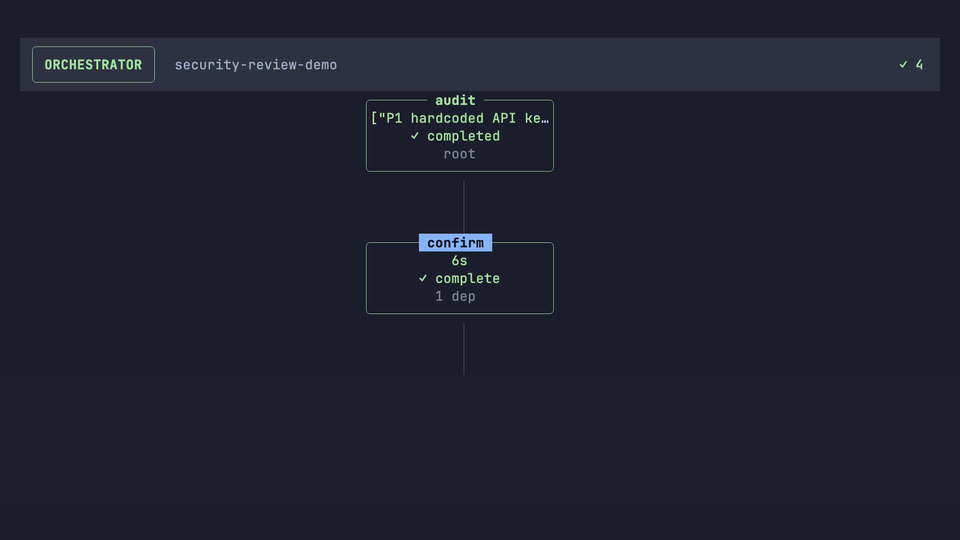
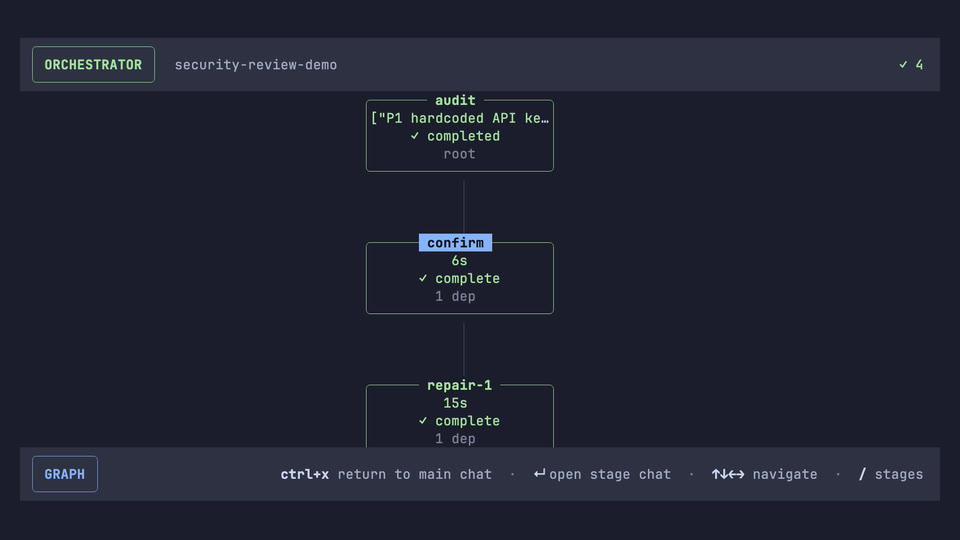
docs: recut the verification showcase capture
Trim the 6.6 security-review clip to the stable graph window so it opens on the audit finding, shows repair running, and ends on the passed four-of-four gate, skipping the launch flash and human prompt. Skip the statusline band mask for this graph-only window like A.9, which was over-painting the bottom node and footer.

Assistant-model: GPT-5.6 Sol

diff --git a/scripts/readme-feature-wall/visual-review.md b/scripts/readme-feature-wall/visual-review.md
@@ -83,7 +83,7 @@ hold is 0.41 seconds.
 | 6.3 | Valid project-local workflow TypeScript is shown, resources reload, the run starts, and its tracked stage completes. | Schema, command, workflow notices, and output are readable. | Pass |
 | 6.4 | The graph reaches an awaiting-input node, opens the real risk selector, and moves among low, medium, and high. | Gate prompt and choices are clear; the run remains paused. | Pass |
 | 6.5 | The run is analysing `demo-app/server.js` when the process is killed (`zsh: killed atomic`), Atomic is started again, and `/workflow resume` lists the retained runs with their checkpoint counts, including `fan-out-and-synthesize ✓ completed 35 checkpoints` and `security-review-demo ✓ completed 12 checkpoints`. | Kill, restart, and the retained-run list are readable. The picker lists runs from this machine, which the narrowed privacy scope allows. | Pass |
-| 6.6 | The audit finds two blockers, the human answers yes, `repair-1` runs, and the graph reaches 4/4. | Audit, confirm, repair, and terminal graph state are readable. | Pass |
+| 6.6 | The graph view holds steady while `repair-1` runs against the hardcoded API key audit finding, then the header reaches 4/4 complete. | Audit finding, ticking repair timer, footer, and final complete state are readable with no launch flash or prompt frames. | Pass |
 | W.1 | A normal chat request names `plain-english-demo`; Atomic calls the workflow tool, returns a full run id, and shows the live run in the BACKGROUND panel. | The request, dispatch card, running status, topic, and run id are clear; private statusline fields are painted. | Pass |
 | W.2 | `/workflow inputs typed-input-demo` shows required `path` text and `depth` integer fields; a static key/value launch starts the run and `/workflow status` lists it. | The contract, validated values `src-client.ts` and `2`, dispatch card, and status remain readable. | Pass |
 | W.3 | The session lists workflows, inspects `control-demo`, launches it, checks status, opens the connect picker, and enters the live graph. | List, input contract, full run id, picker, and `tracked-work` graph node fit the crop. | Pass |

diff --git a/README.md b/README.md
@@ -138,7 +138,7 @@ Every row is a real Atomic session recorded from the installed product. Open the
 <a href="https://github.com/bastani-inc/atomic-crash-course#66-security-review-with-a-repair-loop">
 <picture>
 <source srcset="assets/feature-wall/27-security-review-repair-loop.gif" type="image/gif">
-<img src="assets/feature-wall/27-security-review-repair-loop.jpg" alt="Atomic security-review workflow showing audit findings, a human repair approval, bounded repair, and the final four-of-four graph" width="100%">
+<img src="assets/feature-wall/27-security-review-repair-loop.jpg" alt="Atomic security-review workflow graph with the hardcoded API key audit finding, repair-1 running, and the header reaching four-of-four complete" width="100%">
 </picture>
 </a>
 </td>
